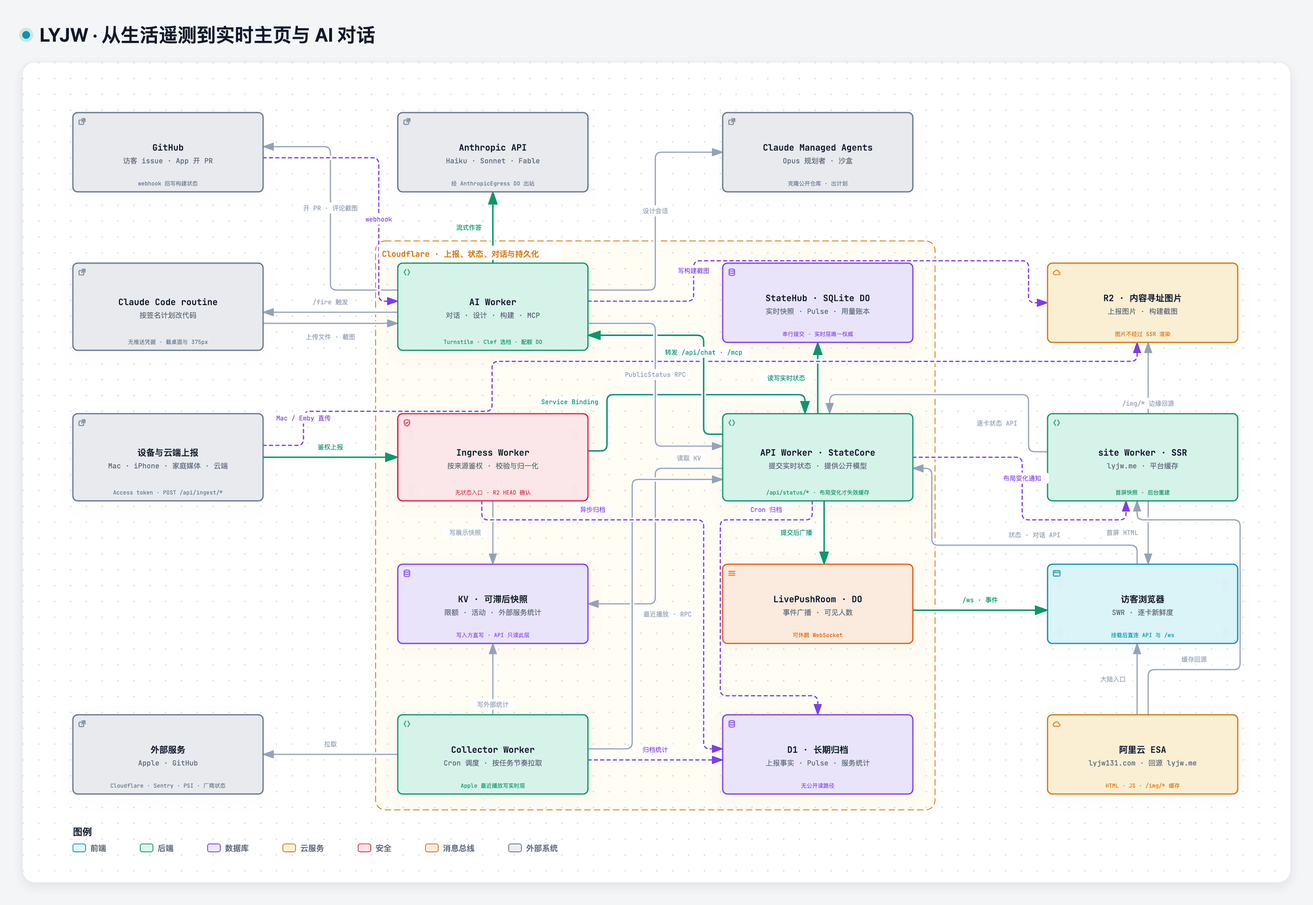
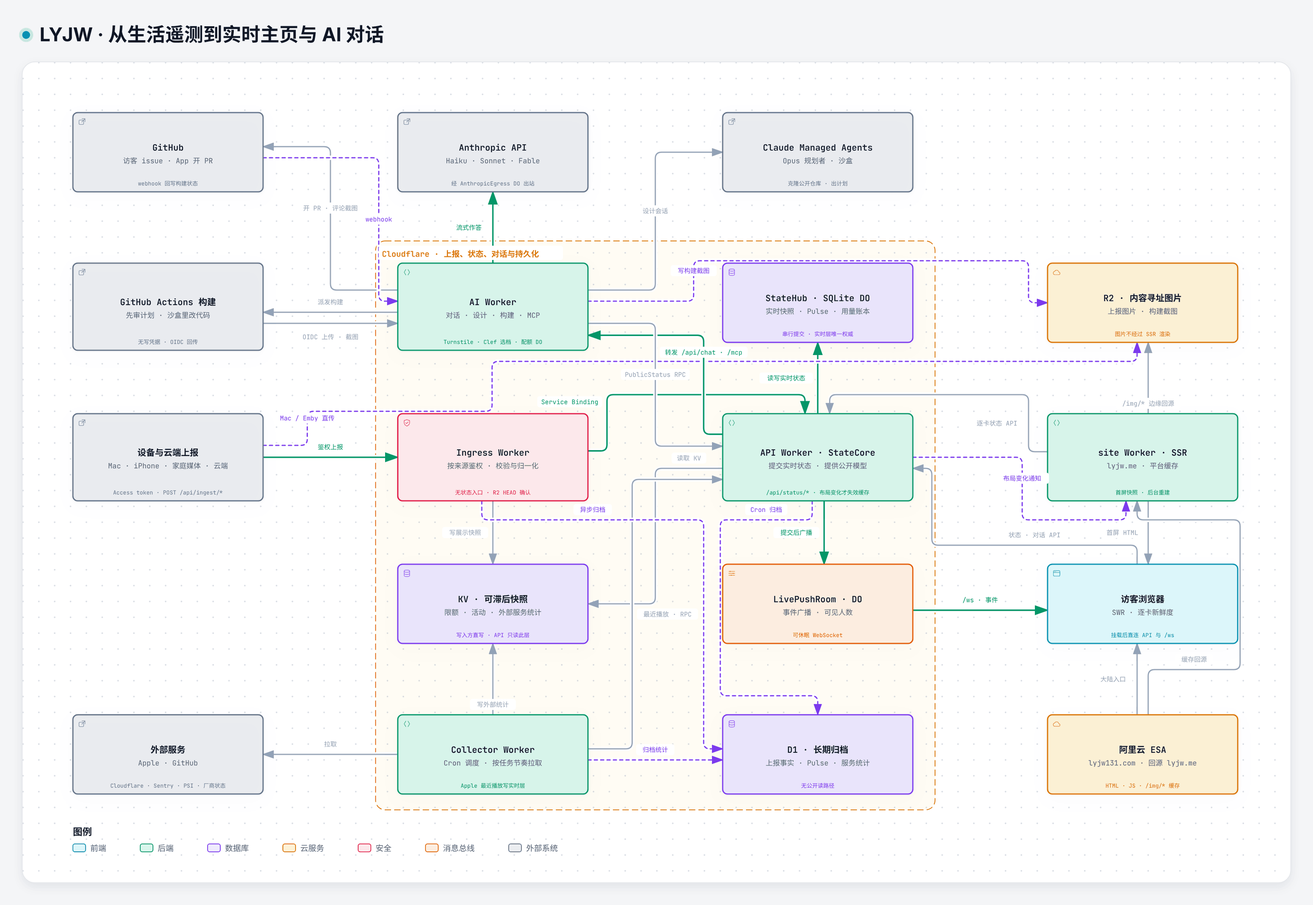
docs(architecture): 按构建工作流的源码重新生成架构图产物与回执
Claude-Session: https://claude.ai/code/session_01Bxy5foHh4fpsobDuCynDQD

diff --git a/docs/architecture.html b/docs/architecture.html
@@ -4982,7 +4982,7 @@ OTHER DEALINGS IN THE FONT SOFTWARE.
       </div>
     </div>
 
-    <script id="archify-source-evidence-data" type="application/json">{"schemaVersion":1,"verified":true,"repository":{"url":"https://github.com/LYJW131/lyjwpage","revision":"9de4de40d6bad7edb2e38af0bd18464a3fee9f97","shortRevision":"9de4de4","label":"LYJW131/lyjwpage","href":"https://github.com/LYJW131/lyjwpage/tree/9de4de40d6bad7edb2e38af0bd18464a3fee9f97"},"referenceCount":47,"nodes":{"reporters":[{"path":"docs/ops-facts.md","href":"https://github.com/LYJW131/lyjwpage/blob/9de4de40d6bad7edb2e38af0bd18464a3fee9f97/docs/ops-facts.md"},{"path":"workers/ingress/src/access-auth.ts","href":"https://github.com/LYJW131/lyjwpage/blob/9de4de40d6bad7edb2e38af0bd18464a3fee9f97/workers/ingress/src/access-auth.ts"},{"path":"shared/ingest/prepare.ts","href":"https://github.com/LYJW131/lyjwpage/blob/9de4de40d6bad7edb2e38af0bd18464a3fee9f97/shared/ingest/prepare.ts"}],"ingress":[{"path":"workers/ingress/src/worker.ts","href":"https://github.com/LYJW131/lyjwpage/blob/9de4de40d6bad7edb2e38af0bd18464a3fee9f97/workers/ingress/src/worker.ts"},{"path":"workers/ingress/src/access-auth.ts","href":"https://github.com/LYJW131/lyjwpage/blob/9de4de40d6bad7edb2e38af0bd18464a3fee9f97/workers/ingress/src/access-auth.ts"},{"path":"shared/ingest/prepare.ts","href":"https://github.com/LYJW131/lyjwpage/blob/9de4de40d6bad7edb2e38af0bd18464a3fee9f97/shared/ingest/prepare.ts"}],"api":[{"path":"workers/api/src/state-core.ts","href":"https://github.com/LYJW131/lyjwpage/blob/9de4de40d6bad7edb2e38af0bd18464a3fee9f97/workers/api/src/state-core.ts"},{"path":"workers/api/src/public-api.ts","href":"https://github.com/LYJW131/lyjwpage/blob/9de4de40d6bad7edb2e38af0bd18464a3fee9f97/workers/api/src/public-api.ts"},{"path":"workers/api/src/live-platform.ts","href":"https://github.com/LYJW131/lyjwpage/blob/9de4de40d6bad7edb2e38af0bd18464a3fee9f97/workers/api/src/live-platform.ts"}],"state":[{"path":"workers/api/src/state-hub.ts","href":"https://github.com/LYJW131/lyjwpage/blob/9de4de40d6bad7edb2e38af0bd18464a3fee9f97/workers/api/src/state-hub.ts"},{"path":"workers/api/src/storage-driver.ts","href":"https://github.com/LYJW131/lyjwpage/blob/9de4de40d6bad7edb2e38af0bd18464a3fee9f97/workers/api/src/storage-driver.ts"}],"lag":[{"path":"shared/lag.ts","href":"https://github.com/LYJW131/lyjwpage/blob/9de4de40d6bad7edb2e38af0bd18464a3fee9f97/shared/lag.ts"},{"path":"workers/ingress/src/lag-ingest.ts","href":"https://github.com/LYJW131/lyjwpage/blob/9de4de40d6bad7edb2e38af0bd18464a3fee9f97/workers/ingress/src/lag-ingest.ts"},{"path":"workers/api/src/ports.ts","href":"https://github.com/LYJW131/lyjwpage/blob/9de4de40d6bad7edb2e38af0bd18464a3fee9f97/workers/api/src/ports.ts"}],"live":[{"path":"workers/api/src/live-platform.ts","href":"https://github.com/LYJW131/lyjwpage/blob/9de4de40d6bad7edb2e38af0bd18464a3fee9f97/workers/api/src/live-platform.ts"},{"path":"workers/api/src/origin-worker.ts","href":"https://github.com/LYJW131/lyjwpage/blob/9de4de40d6bad7edb2e38af0bd18464a3fee9f97/workers/api/src/origin-worker.ts"},{"path":"workers/api/src/live-census.ts","href":"https://github.com/LYJW131/lyjwpage/blob/9de4de40d6bad7edb2e38af0bd18464a3fee9f97/workers/api/src/live-census.ts"}],"collector":[{"path":"workers/collector/src/registry.ts","href":"https://github.com/LYJW131/lyjwpage/blob/9de4de40d6bad7edb2e38af0bd18464a3fee9f97/workers/collector/src/registry.ts"},{"path":"workers/collector/src/jobs/apple-recent.ts","href":"https://github.com/LYJW131/lyjwpage/blob/9de4de40d6bad7edb2e38af0bd18464a3fee9f97/workers/collector/src/jobs/apple-recent.ts"},{"path":"workers/collector/wrangler.toml","href":"https://github.com/LYJW131/lyjwpage/blob/9de4de40d6bad7edb2e38af0bd18464a3fee9f97/workers/collector/wrangler.toml"}],"external":[{"path":"workers/collector/src/registry.ts","href":"https://github.com/LYJW131/lyjwpage/blob/9de4de40d6bad7edb2e38af0bd18464a3fee9f97/workers/collector/src/registry.ts"}],"history":[{"path":"workers/ingress/src/ingest-archive.ts","href":"https://github.com/LYJW131/lyjwpage/blob/9de4de40d6bad7edb2e38af0bd18464a3fee9f97/workers/ingress/src/ingest-archive.ts"},{"path":"workers/api/src/index.ts","href":"https://github.com/LYJW131/lyjwpage/blob/9de4de40d6bad7edb2e38af0bd18464a3fee9f97/workers/api/src/index.ts"},{"path":"workers/collector/src/history.ts","href":"https://github.com/LYJW131/lyjwpage/blob/9de4de40d6bad7edb2e38af0bd18464a3fee9f97/workers/collector/src/history.ts"}],"images":[{"path":"reporters/emby-reporter/src/r2.ts","href":"https://github.com/LYJW131/lyjwpage/blob/9de4de40d6bad7edb2e38af0bd18464a3fee9f97/reporters/emby-reporter/src/r2.ts"},{"path":"workers/ai/src/build/screenshots.ts","href":"https://github.com/LYJW131/lyjwpage/blob/9de4de40d6bad7edb2e38af0bd18464a3fee9f97/workers/ai/src/build/screenshots.ts"},{"path":"workers/site/src/index.ts","href":"https://github.com/LYJW131/lyjwpage/blob/9de4de40d6bad7edb2e38af0bd18464a3fee9f97/workers/site/src/index.ts"}],"site":[{"path":"src/lib/first-screen.ts","href":"https://github.com/LYJW131/lyjwpage/blob/9de4de40d6bad7edb2e38af0bd18464a3fee9f97/src/lib/first-screen.ts"},{"path":"src/app/page.tsx","href":"https://github.com/LYJW131/lyjwpage/blob/9de4de40d6bad7edb2e38af0bd18464a3fee9f97/src/app/page.tsx"},{"path":"workers/site/src/index.ts","href":"https://github.com/LYJW131/lyjwpage/blob/9de4de40d6bad7edb2e38af0bd18464a3fee9f97/workers/site/src/index.ts"}],"browser":[{"path":"src/hooks/use-status.ts","href":"https://github.com/LYJW131/lyjwpage/blob/9de4de40d6bad7edb2e38af0bd18464a3fee9f97/src/hooks/use-status.ts"},{"path":"src/lib/live-socket.ts","href":"https://github.com/LYJW131/lyjwpage/blob/9de4de40d6bad7edb2e38af0bd18464a3fee9f97/src/lib/live-socket.ts"},{"path":"shared/freshness.ts","href":"https://github.com/LYJW131/lyjwpage/blob/9de4de40d6bad7edb2e38af0bd18464a3fee9f97/shared/freshness.ts"}],"esa":[{"path":"docs/ops-facts.md","href":"https://github.com/LYJW131/lyjwpage/blob/9de4de40d6bad7edb2e38af0bd18464a3fee9f97/docs/ops-facts.md"},{"path":"workers/site/src/index.ts","href":"https://github.com/LYJW131/lyjwpage/blob/9de4de40d6bad7edb2e38af0bd18464a3fee9f97/workers/site/src/index.ts"}],"ai":[{"path":"workers/ai/src/worker.ts","href":"https://github.com/LYJW131/lyjwpage/blob/9de4de40d6bad7edb2e38af0bd18464a3fee9f97/workers/ai/src/worker.ts"},{"path":"workers/ai/src/chat/handler.ts","href":"https://github.com/LYJW131/lyjwpage/blob/9de4de40d6bad7edb2e38af0bd18464a3fee9f97/workers/ai/src/chat/handler.ts"},{"path":"workers/ai/src/chat/router.ts","href":"https://github.com/LYJW131/lyjwpage/blob/9de4de40d6bad7edb2e38af0bd18464a3fee9f97/workers/ai/src/chat/router.ts"}],"anthropic":[{"path":"shared/god-chat-tiers.ts","href":"https://github.com/LYJW131/lyjwpage/blob/9de4de40d6bad7edb2e38af0bd18464a3fee9f97/shared/god-chat-tiers.ts"},{"path":"workers/ai/src/chat/egress.ts","href":"https://github.com/LYJW131/lyjwpage/blob/9de4de40d6bad7edb2e38af0bd18464a3fee9f97/workers/ai/src/chat/egress.ts"}],"managed":[{"path":"workers/ai/src/chat/designer.ts","href":"https://github.com/LYJW131/lyjwpage/blob/9de4de40d6bad7edb2e38af0bd18464a3fee9f97/workers/ai/src/chat/designer.ts"},{"path":"workers/ai/src/chat/design.ts","href":"https://github.com/LYJW131/lyjwpage/blob/9de4de40d6bad7edb2e38af0bd18464a3fee9f97/workers/ai/src/chat/design.ts"}],"routine":[{"path":"workers/ai/src/build/handlers.ts","href":"https://github.com/LYJW131/lyjwpage/blob/9de4de40d6bad7edb2e38af0bd18464a3fee9f97/workers/ai/src/build/handlers.ts"},{"path":"docs/build-routine.md","href":"https://github.com/LYJW131/lyjwpage/blob/9de4de40d6bad7edb2e38af0bd18464a3fee9f97/docs/build-routine.md"}],"github":[{"path":"workers/ai/src/build/github.ts","href":"https://github.com/LYJW131/lyjwpage/blob/9de4de40d6bad7edb2e38af0bd18464a3fee9f97/workers/ai/src/build/github.ts"},{"path":"workers/ai/src/build/webhook.ts","href":"https://github.com/LYJW131/lyjwpage/blob/9de4de40d6bad7edb2e38af0bd18464a3fee9f97/workers/ai/src/build/webhook.ts"},{"path":"workers/ai/src/github-issue.ts","href":"https://github.com/LYJW131/lyjwpage/blob/9de4de40d6bad7edb2e38af0bd18464a3fee9f97/workers/ai/src/github-issue.ts"}]}}</script>
+    <script id="archify-source-evidence-data" type="application/json">{"schemaVersion":1,"verified":true,"repository":{"url":"https://github.com/LYJW131/lyjwpage","revision":"af504d82289553557e8934ac923350f14ef4fc10","shortRevision":"af504d8","label":"LYJW131/lyjwpage","href":"https://github.com/LYJW131/lyjwpage/tree/af504d82289553557e8934ac923350f14ef4fc10"},"referenceCount":47,"nodes":{"reporters":[{"path":"docs/ops-facts.md","href":"https://github.com/LYJW131/lyjwpage/blob/af504d82289553557e8934ac923350f14ef4fc10/docs/ops-facts.md"},{"path":"workers/ingress/src/access-auth.ts","href":"https://github.com/LYJW131/lyjwpage/blob/af504d82289553557e8934ac923350f14ef4fc10/workers/ingress/src/access-auth.ts"},{"path":"shared/ingest/prepare.ts","href":"https://github.com/LYJW131/lyjwpage/blob/af504d82289553557e8934ac923350f14ef4fc10/shared/ingest/prepare.ts"}],"ingress":[{"path":"workers/ingress/src/worker.ts","href":"https://github.com/LYJW131/lyjwpage/blob/af504d82289553557e8934ac923350f14ef4fc10/workers/ingress/src/worker.ts"},{"path":"workers/ingress/src/access-auth.ts","href":"https://github.com/LYJW131/lyjwpage/blob/af504d82289553557e8934ac923350f14ef4fc10/workers/ingress/src/access-auth.ts"},{"path":"shared/ingest/prepare.ts","href":"https://github.com/LYJW131/lyjwpage/blob/af504d82289553557e8934ac923350f14ef4fc10/shared/ingest/prepare.ts"}],"api":[{"path":"workers/api/src/state-core.ts","href":"https://github.com/LYJW131/lyjwpage/blob/af504d82289553557e8934ac923350f14ef4fc10/workers/api/src/state-core.ts"},{"path":"workers/api/src/public-api.ts","href":"https://github.com/LYJW131/lyjwpage/blob/af504d82289553557e8934ac923350f14ef4fc10/workers/api/src/public-api.ts"},{"path":"workers/api/src/live-platform.ts","href":"https://github.com/LYJW131/lyjwpage/blob/af504d82289553557e8934ac923350f14ef4fc10/workers/api/src/live-platform.ts"}],"state":[{"path":"workers/api/src/state-hub.ts","href":"https://github.com/LYJW131/lyjwpage/blob/af504d82289553557e8934ac923350f14ef4fc10/workers/api/src/state-hub.ts"},{"path":"workers/api/src/storage-driver.ts","href":"https://github.com/LYJW131/lyjwpage/blob/af504d82289553557e8934ac923350f14ef4fc10/workers/api/src/storage-driver.ts"}],"lag":[{"path":"shared/lag.ts","href":"https://github.com/LYJW131/lyjwpage/blob/af504d82289553557e8934ac923350f14ef4fc10/shared/lag.ts"},{"path":"workers/ingress/src/lag-ingest.ts","href":"https://github.com/LYJW131/lyjwpage/blob/af504d82289553557e8934ac923350f14ef4fc10/workers/ingress/src/lag-ingest.ts"},{"path":"workers/api/src/ports.ts","href":"https://github.com/LYJW131/lyjwpage/blob/af504d82289553557e8934ac923350f14ef4fc10/workers/api/src/ports.ts"}],"live":[{"path":"workers/api/src/live-platform.ts","href":"https://github.com/LYJW131/lyjwpage/blob/af504d82289553557e8934ac923350f14ef4fc10/workers/api/src/live-platform.ts"},{"path":"workers/api/src/origin-worker.ts","href":"https://github.com/LYJW131/lyjwpage/blob/af504d82289553557e8934ac923350f14ef4fc10/workers/api/src/origin-worker.ts"},{"path":"workers/api/src/live-census.ts","href":"https://github.com/LYJW131/lyjwpage/blob/af504d82289553557e8934ac923350f14ef4fc10/workers/api/src/live-census.ts"}],"collector":[{"path":"workers/collector/src/registry.ts","href":"https://github.com/LYJW131/lyjwpage/blob/af504d82289553557e8934ac923350f14ef4fc10/workers/collector/src/registry.ts"},{"path":"workers/collector/src/jobs/apple-recent.ts","href":"https://github.com/LYJW131/lyjwpage/blob/af504d82289553557e8934ac923350f14ef4fc10/workers/collector/src/jobs/apple-recent.ts"},{"path":"workers/collector/wrangler.toml","href":"https://github.com/LYJW131/lyjwpage/blob/af504d82289553557e8934ac923350f14ef4fc10/workers/collector/wrangler.toml"}],"external":[{"path":"workers/collector/src/registry.ts","href":"https://github.com/LYJW131/lyjwpage/blob/af504d82289553557e8934ac923350f14ef4fc10/workers/collector/src/registry.ts"}],"history":[{"path":"workers/ingress/src/ingest-archive.ts","href":"https://github.com/LYJW131/lyjwpage/blob/af504d82289553557e8934ac923350f14ef4fc10/workers/ingress/src/ingest-archive.ts"},{"path":"workers/api/src/index.ts","href":"https://github.com/LYJW131/lyjwpage/blob/af504d82289553557e8934ac923350f14ef4fc10/workers/api/src/index.ts"},{"path":"workers/collector/src/history.ts","href":"https://github.com/LYJW131/lyjwpage/blob/af504d82289553557e8934ac923350f14ef4fc10/workers/collector/src/history.ts"}],"images":[{"path":"reporters/emby-reporter/src/r2.ts","href":"https://github.com/LYJW131/lyjwpage/blob/af504d82289553557e8934ac923350f14ef4fc10/reporters/emby-reporter/src/r2.ts"},{"path":"workers/ai/src/build/screenshots.ts","href":"https://github.com/LYJW131/lyjwpage/blob/af504d82289553557e8934ac923350f14ef4fc10/workers/ai/src/build/screenshots.ts"},{"path":"workers/site/src/index.ts","href":"https://github.com/LYJW131/lyjwpage/blob/af504d82289553557e8934ac923350f14ef4fc10/workers/site/src/index.ts"}],"site":[{"path":"src/lib/first-screen.ts","href":"https://github.com/LYJW131/lyjwpage/blob/af504d82289553557e8934ac923350f14ef4fc10/src/lib/first-screen.ts"},{"path":"src/app/page.tsx","href":"https://github.com/LYJW131/lyjwpage/blob/af504d82289553557e8934ac923350f14ef4fc10/src/app/page.tsx"},{"path":"workers/site/src/index.ts","href":"https://github.com/LYJW131/lyjwpage/blob/af504d82289553557e8934ac923350f14ef4fc10/workers/site/src/index.ts"}],"browser":[{"path":"src/hooks/use-status.ts","href":"https://github.com/LYJW131/lyjwpage/blob/af504d82289553557e8934ac923350f14ef4fc10/src/hooks/use-status.ts"},{"path":"src/lib/live-socket.ts","href":"https://github.com/LYJW131/lyjwpage/blob/af504d82289553557e8934ac923350f14ef4fc10/src/lib/live-socket.ts"},{"path":"shared/freshness.ts","href":"https://github.com/LYJW131/lyjwpage/blob/af504d82289553557e8934ac923350f14ef4fc10/shared/freshness.ts"}],"esa":[{"path":"docs/ops-facts.md","href":"https://github.com/LYJW131/lyjwpage/blob/af504d82289553557e8934ac923350f14ef4fc10/docs/ops-facts.md"},{"path":"workers/site/src/index.ts","href":"https://github.com/LYJW131/lyjwpage/blob/af504d82289553557e8934ac923350f14ef4fc10/workers/site/src/index.ts"}],"ai":[{"path":"workers/ai/src/worker.ts","href":"https://github.com/LYJW131/lyjwpage/blob/af504d82289553557e8934ac923350f14ef4fc10/workers/ai/src/worker.ts"},{"path":"workers/ai/src/chat/handler.ts","href":"https://github.com/LYJW131/lyjwpage/blob/af504d82289553557e8934ac923350f14ef4fc10/workers/ai/src/chat/handler.ts"},{"path":"workers/ai/src/chat/router.ts","href":"https://github.com/LYJW131/lyjwpage/blob/af504d82289553557e8934ac923350f14ef4fc10/workers/ai/src/chat/router.ts"}],"anthropic":[{"path":"shared/god-chat-tiers.ts","href":"https://github.com/LYJW131/lyjwpage/blob/af504d82289553557e8934ac923350f14ef4fc10/shared/god-chat-tiers.ts"},{"path":"workers/ai/src/chat/egress.ts","href":"https://github.com/LYJW131/lyjwpage/blob/af504d82289553557e8934ac923350f14ef4fc10/workers/ai/src/chat/egress.ts"}],"managed":[{"path":"workers/ai/src/chat/designer.ts","href":"https://github.com/LYJW131/lyjwpage/blob/af504d82289553557e8934ac923350f14ef4fc10/workers/ai/src/chat/designer.ts"},{"path":"workers/ai/src/chat/design.ts","href":"https://github.com/LYJW131/lyjwpage/blob/af504d82289553557e8934ac923350f14ef4fc10/workers/ai/src/chat/design.ts"}],"build_workflow":[{"path":".github/workflows/build.yml","href":"https://github.com/LYJW131/lyjwpage/blob/af504d82289553557e8934ac923350f14ef4fc10/.github/workflows/build.yml"},{"path":"scripts/build-actions.mjs","href":"https://github.com/LYJW131/lyjwpage/blob/af504d82289553557e8934ac923350f14ef4fc10/scripts/build-actions.mjs"}],"github":[{"path":"workers/ai/src/build/github.ts","href":"https://github.com/LYJW131/lyjwpage/blob/af504d82289553557e8934ac923350f14ef4fc10/workers/ai/src/build/github.ts"},{"path":"workers/ai/src/build/webhook.ts","href":"https://github.com/LYJW131/lyjwpage/blob/af504d82289553557e8934ac923350f14ef4fc10/workers/ai/src/build/webhook.ts"},{"path":"shared/build-routine.ts","href":"https://github.com/LYJW131/lyjwpage/blob/af504d82289553557e8934ac923350f14ef4fc10/shared/build-routine.ts"}]}}</script>
     <script id="archify-i18n-data" type="application/json">{"locale":"zh-CN","messages":{"viewer.kind.frontend":"前端","viewer.kind.backend":"后端","viewer.kind.database":"数据库","viewer.kind.cloud":"云服务","viewer.kind.security":"安全","viewer.kind.messagebus":"消息总线","viewer.kind.external":"外部系统","viewer.kind.neutral":"中性","viewer.kind.node":"节点","viewer.kind.start":"开始","viewer.kind.active":"活动","viewer.kind.waiting":"等待","viewer.kind.decision":"决策","viewer.kind.success":"成功","viewer.kind.failure":"失败","viewer.toolbar.actions":"图表操作","viewer.theme.toggle.title":"切换主题（T）","viewer.theme.toggle":"切换颜色主题","viewer.theme.dark":"深色","viewer.theme.light":"浅色","viewer.preset.choose.title":"选择视觉风格（S 循环切换）","viewer.preset.choose":"选择视觉风格","viewer.preset.style":"风格","viewer.preset.menu":"视觉风格","viewer.preset.identity":"视觉表达","viewer.preset.cycles":"循环切换","viewer.preset.classic":"经典","viewer.preset.classic.short":"经典","viewer.preset.classic.hint":"稳定的技术默认风格","viewer.preset.flow":"信号流","viewer.preset.flow.short":"流动","viewer.preset.flow.hint":"突出动态流向","viewer.preset.blueprint":"蓝图","viewer.preset.blueprint.hint":"工程评审","viewer.preset.editorial":"编辑风格","viewer.preset.editorial.hint":"适合发布与上线说明","viewer.preset.badge.signalFlow":"信号流","viewer.preset.badge.blueprint":"蓝图 / 修订 01","viewer.preset.badge.editorial":"编辑风格 / 现场笔记","viewer.preset.badge.editorialPlate":"ARCHIFY / 图版 04","viewer.preset.current":"当前视觉风格：{style}。选择视觉风格","viewer.motion.live":"动态","viewer.motion.still":"静态","viewer.motion.pause":"暂停动效","viewer.motion.resume":"恢复动效","viewer.motion.reduced":"已根据减少动态效果偏好暂停动效","viewer.motion.hidden":"页面不可见时已暂停动效","viewer.motion.yielding":"暂停动效；当前让位于{owner}","viewer.motion.yielding.title":"动态预览已启用 · 正在让位于{owner}","viewer.owner.route":"路径探测","viewer.owner.lens":"语义透镜","viewer.owner.relationship":"关系预览","viewer.owner.intent":"意图追踪","viewer.owner.focus":"语义聚焦","viewer.owner.legend":"图例预览","viewer.owner.reader":"读者交互","viewer.present.enter":"进入演示模式","viewer.present.enter.title":"演示模式（F）","viewer.present.exit":"退出演示模式","viewer.present.exit.title":"退出演示模式（F 或 Escape）","viewer.present.present":"演示","viewer.present.exit.label":"退出","viewer.export.button":"导出","viewer.export.button.title":"导出图表（E）","viewer.export.diagram":"导出图表","viewer.export.menu":"导出","viewer.export.subtitle":"便携、整洁的输出","viewer.export.share":"分享","viewer.export.shareCard":"分享卡片","viewer.export.routeShareCard":"路径分享卡片","viewer.export.reachShareCard":"可达范围分享卡片","viewer.export.copyDiagram":"复制图表","viewer.export.clipboardPng":"复制 PNG 到剪贴板","viewer.export.raster":"位图","viewer.export.image":"图像","viewer.export.lossless":"无损图像","viewer.export.compact":"紧凑图像","viewer.export.modern":"现代图像格式","viewer.export.vectorMotion":"矢量与动效","viewer.export.vectorMotion.heading":"矢量与动效","viewer.export.editable":"可编辑矢量图","viewer.export.svg.auto":"SVG · 自动","viewer.export.svg.auto.hint":"匹配宿主主题","viewer.export.svg.light":"SVG · 浅色","viewer.export.svg.light.hint":"始终浅色","viewer.export.svg.dark":"SVG · 深色","viewer.export.svg.dark.hint":"始终深色","viewer.export.motion6s":"6 秒动效","viewer.export.unsupported":"当前浏览器不支持","viewer.export.clipboardUnsupported":"当前浏览器不支持写入图片剪贴板","viewer.export.clipboardUnsupported.short":"此浏览器不支持写入图片剪贴板。","viewer.export.motionUnavailable":"当前浏览器无法录制动效","viewer.export.webmUnavailable":"当前浏览器不支持 WebM","viewer.export.failed":"导出失败：{message}","viewer.export.unknownVariant":"未知的分享卡片类型：{variant}","viewer.export.routeRequired":"请先追踪路径，再导出路径分享卡片","viewer.export.reachRequired":"请先追踪编写可达范围，再导出可达范围分享卡片","viewer.export.unknown":"未知错误","viewer.export.routeFailed":"路径分享卡片导出失败：{message}","viewer.export.reachFailed":"可达范围分享卡片导出失败：{message}","viewer.export.copyFailed":"复制失败：{message}","viewer.export.copiedPng":"已将 PNG 复制到剪贴板","viewer.export.downloadedRoute":"已下载路径分享卡片","viewer.export.downloadedReach":"已下载可达范围分享卡片","viewer.export.downloadedWebm":"已下载 WebM","viewer.export.recording":"正在录制 6 秒动效…","viewer.export.card.routeSummary.one":"路径：{source} → {target} · {count} 步","viewer.export.card.routeSummary.other":"路径：{source} → {target} · {count} 步","viewer.export.card.reachSummary":"从{origin}开始的编写{direction} · {nodes} · {links} · 最深 {hops}","viewer.export.card.node.one":"{count} 个节点","viewer.export.card.node.other":"{count} 个节点","viewer.export.card.link.one":"{count} 条连接","viewer.export.card.link.other":"{count} 条连接","viewer.export.card.hop.one":"{count} 跳","viewer.export.card.hop.other":"{count} 跳","viewer.export.card.routeBadge":"ARCHIFY · 路径 · {hops}","viewer.export.card.reachBadge":"ARCHIFY · {direction}可达范围","viewer.export.direction.upstream":"上游","viewer.export.direction.downstream":"下游","viewer.export.error.canvasUnavailable":"无法为{label}使用画布","viewer.export.error.contextUnavailable":"无法为{label}创建二维画布上下文","viewer.export.error.toBlobUnavailable":"{label}无法使用 canvas.toBlob","viewer.export.error.toBlobNull":"{label}的 canvas.toBlob 未返回数据","viewer.export.error.variantsCombined":"无法同时组合多种分享卡片类型","viewer.export.error.viewerState":"分享卡片导出无法移除临时 Viewer 状态","viewer.export.error.routeState":"路径卡片导出无法安全保留已解析路径","viewer.export.error.reachState":"可达范围卡片导出无法安全保留编写的可达范围","viewer.export.error.webmRequirements":"WebM 动效导出需要追踪动画及浏览器 MediaRecorder 支持","viewer.export.error.mediaRecorder":"MediaRecorder 录制失败","viewer.export.error.emptyWebm":"MediaRecorder 生成了空的 WebM","viewer.export.error.webmBackground":"无法为 WebM 导出加载 SVG 背景","viewer.guide.title":"探索此系统","viewer.focus.selectedNodes":"已选择 {count} 个节点","viewer.guide.eyebrow":"图表指南","viewer.guide.close":"关闭图表指南","viewer.guide.inspecting":"正在检查已编译语义","viewer.guide.actions":"图表探索操作","viewer.guide.find":"查找任意节点","viewer.guide.find.hint":"搜索标签、职责、类型和稳定 ID。","viewer.guide.route":"追踪路径","viewer.guide.route.aria":"追踪有向路径","viewer.guide.route.hint":"查看两个语义节点如何按编写方向连接。","viewer.guide.map":"查看完整系统","viewer.guide.map.hint":"打开带实时视口和稳定节点的语义雷达。","viewer.guide.lens":"比较语义类型","viewer.guide.lens.hint":"统计角色、显示流量并比较直接编写的连接。","viewer.guide.present":"进入演示模式","viewer.guide.present.hint":"让实时图表占满视口，同时不改变导出。","viewer.guide.shortcuts":"其他键盘快捷键","viewer.guide.shortcut.export":"导出","viewer.guide.shortcut.theme":"主题","viewer.guide.shortcut.style":"风格","viewer.guide.shortcut.reset":"重置","viewer.guide.shortcut.zoomIn":"放大","viewer.guide.shortcut.zoomOut":"缩小","viewer.guide.shortcut.close":"关闭","viewer.guide.facts":"{nodes} · {relationships}","viewer.guide.fact.node.one":"{count} 个语义节点","viewer.guide.fact.node.other":"{count} 个语义节点","viewer.guide.fact.relationship.one":"{count} 条关系","viewer.guide.fact.relationship.other":"{count} 条关系","viewer.guide.open":"打开图表指南","viewer.finder.title":"查找节点","viewer.finder.close":"关闭节点查找器","viewer.finder.placeholder":"搜索标签或 ID","viewer.finder.search":"搜索图表节点","viewer.finder.results":"图表节点","viewer.finder.empty":"没有匹配的节点","viewer.finder.result.focus":"聚焦{label}","viewer.finder.result.routeStart":"选择{label}作为路径起点","viewer.finder.result.routeTarget":"选择{label}作为路径终点，{links}","viewer.finder.status.empty":"没有匹配的节点","viewer.finder.status.count.one":"{count} 个匹配节点","viewer.finder.status.count.other":"{count} 个匹配节点","viewer.finder.noun.nodes":"个节点","viewer.finder.link.one":"{count} 条连接","viewer.finder.link.other":"{count} 条连接","viewer.finder.result.focus.one":"聚焦{label}，{count} 条相关连接","viewer.finder.result.focus.other":"聚焦{label}，{count} 条相关连接","viewer.finder.status.filtered":"{visible}/{available} {noun}","viewer.finder.status.all":"{available} {noun}","viewer.passport.eyebrow":"语义护照","viewer.passport.metadata":"节点元数据","viewer.passport.evidence":"已验证的源代码证据","viewer.passport.verified":"已验证来源","viewer.passport.verificationScope":"已按固定修订版本验证本地 Git 证据，未检查远程访问权限。","viewer.passport.reach":"编写可达范围","viewer.passport.reach.trace":"追踪编写的可达性","viewer.passport.upstream":"上游","viewer.passport.downstream":"下游","viewer.passport.upstream.trace":"追踪上游编写可达性","viewer.passport.downstream.trace":"追踪下游编写可达性","viewer.passport.close":"关闭语义护照","viewer.passport.move":"移动语义护照。可拖动、使用方向键移动，或按 Home 恢复自动位置。","viewer.passport.copy":"复制链接","viewer.passport.copy.focus":"复制聚焦节点的链接","viewer.passport.relations":"关系","viewer.passport.relations.show":"显示关联关系","viewer.passport.relations.hide":"隐藏关联关系","viewer.passport.relations.list":"关联关系","viewer.passport.copyRelation":"复制关系","viewer.passport.copyNode":"复制节点","viewer.passport.copyPinned":"复制固定关系的链接","viewer.passport.copySource":"复制来源节点的链接","viewer.passport.copy.focused.success":"已复制聚焦节点链接","viewer.passport.copy.pinned.success":"已复制固定关系链接","viewer.passport.copy.focused.failed":"无法复制聚焦节点链接","viewer.passport.copy.pinned.failed":"无法复制固定关系链接","viewer.passport.relationship.none":"没有关联关系","viewer.passport.relationship.count.one":"{count} 条关系","viewer.passport.relationship.count.other":"{count} 条关系","viewer.passport.relationship.show.one":"显示 {count} 条关联关系","viewer.passport.relationship.show.other":"显示 {count} 条关联关系","viewer.passport.relationship.summary":"{out} 条出向 · {in} 条入向{loops}","viewer.passport.relationship.loops":" · {count} 条自环","viewer.passport.relationship.explorer":"直接关系浏览器","viewer.passport.relationship.help":"使用方向键浏览关系。按 Enter 或空格键固定详情；按 Escape 清除。","viewer.passport.relationship.loopsBack":"回环","viewer.passport.relationship.connectsTo":"连接到","viewer.passport.relationship.connectsFrom":"连接自","viewer.passport.relationship.pinned":"已固定关系 · {from} → {to} · {label}","viewer.passport.relationship.inspect":"检查第 {index}/{total} 条关系：{from} 到 {to}，{label}。按 Enter 查看详情。","viewer.passport.relationship.group.out":"出向","viewer.passport.relationship.group.in":"入向","viewer.passport.relationship.group.loop":"自环","viewer.passport.relationship.row":"{group}：{relationship}，{neighbor}","viewer.passport.relationship.direction.out":"出 →","viewer.passport.relationship.direction.in":"← 入","viewer.passport.relationship.direction.loop":"自环","viewer.passport.sourceCount.one":"{count} 个已验证来源引用","viewer.passport.sourceCount.other":"{count} 个已验证来源引用","viewer.passport.sourceMarker":"来源","viewer.passport.beacon.one":"{count} 个已验证来源；聚焦此节点以检查","viewer.passport.beacon.other":"{count} 个已验证来源；聚焦此节点以检查","viewer.passport.repository.open":"打开已验证的仓库修订版本 {revision}","viewer.passport.source.open":"打开修订版本 {revision} 中已验证的来源 {path}","viewer.passport.source.openLink":"打开 ↗","viewer.passport.reach.upstream.one":"追踪 {count} 个上游编写节点","viewer.passport.reach.upstream.other":"追踪 {count} 个上游编写节点","viewer.passport.reach.downstream.one":"追踪 {count} 个下游编写节点","viewer.passport.reach.downstream.other":"追踪 {count} 个下游编写节点","viewer.passport.reach.noUpstream":"没有上游编写节点","viewer.passport.reach.noDownstream":"没有下游编写节点","viewer.passport.reach.status":"{direction} · {nodes} 个节点 · {links} 条连接 · 最深 {hops} 跳","viewer.route.eyebrow":"路径","viewer.route.start":"点击路径的起点","viewer.route.start.find":"查找起点","viewer.route.start.find.aria":"查找路径起点","viewer.route.copy":"复制链接","viewer.route.copy.aria":"复制已追踪路径的链接","viewer.route.clear":"清除","viewer.route.clear.aria":"清除路径探测","viewer.route.traced":"路径","viewer.route.pickTwo":"在图上点两个节点","viewer.route.pickOne":"在图上点一个节点","viewer.route.controls":"路径旅程控制","viewer.route.previous":"上一个路径位置","viewer.route.play":"播放路径旅程","viewer.route.pause":"暂停路径旅程","viewer.route.replay":"重播路径旅程","viewer.route.next":"下一个路径位置","viewer.route.journey":"旅程","viewer.route.pause.label":"暂停","viewer.route.replay.label":"重播","viewer.route.overview":"总览","viewer.route.overview.aria":"显示完整路径总览","viewer.route.instructions":"先点起点，再点终点，沿箭头方向找路。","viewer.route.destination":"从{label}出发，走到哪里？","viewer.route.destination.find":"查找目标","viewer.route.destination.find.aria":"查找可达的路径目标","viewer.route.differentDestination":"选择其他目标","viewer.route.distinct":"请选两个不同的节点。","viewer.route.unreachable":"走不到{label}","viewer.route.unreachable.detail":"沿箭头方向，从{source}走不到{target}。请选一个高亮节点。","viewer.route.start.instructions":"接着选终点，能走到的节点会亮起。","viewer.route.copy.success":"已复制路径链接","viewer.route.copy.failed":"无法复制路径链接","viewer.route.position":"路径位置 {index}/{total}：{label}","viewer.route.step":"第 {index}/{total} 步 · {phase} · {label}","viewer.route.motionRequired":"自动旅程需要动态模式","viewer.route.trigger.clear":"清除已追踪路径","viewer.route.overview.status":"{nodes} · {hops} · 最短路径","viewer.route.overview.node.one":"{count} 个节点","viewer.route.overview.node.other":"{count} 个节点","viewer.route.overview.hop.one":"{count} 步","viewer.route.overview.hop.other":"{count} 步","viewer.route.phase.playing":"播放中","viewer.route.phase.complete":"已完成","viewer.route.phase.inspecting":"检查中","viewer.route.destination.count.one":"有 {count} 个能走到的节点已高亮，点一下。","viewer.route.destination.count.other":"有 {count} 个能走到的节点已高亮，点一个。","viewer.route.noOutgoing":"这个节点没有向外的箭头。清除后换一个起点。","viewer.route.result.title":"{source} 到 {target}","viewer.route.finder.source.title":"选择路径起点","viewer.route.finder.source.placeholder":"搜索路径来源","viewer.route.finder.source.empty":"没有匹配的路径来源","viewer.route.finder.source.results":"可作为路径起点的节点","viewer.route.finder.source.noun":"个路径来源","viewer.route.finder.source.badge":"起点","viewer.route.finder.target.title":"从{label}出发的目标","viewer.route.finder.target.placeholder":"搜索可达目标","viewer.route.finder.target.empty":"没有匹配的可达目标","viewer.route.finder.target.results":"可达路径目标","viewer.route.finder.target.noun":"个可达目标","viewer.route.hop.one":"{count} 跳","viewer.route.hop.other":"{count} 跳","viewer.lens.eyebrow":"语义透镜","viewer.lens.title":"比较系统角色","viewer.lens.close":"关闭语义透镜","viewer.lens.instruction":"最多选择两种语义类型。选择一种可显示其真实流量；选择两种只比较直接编写的关系。","viewer.lens.kinds":"语义类型","viewer.lens.choose":"选择一种类型以检查其节点和相连关系。","viewer.lens.copy":"复制语义透镜链接","viewer.lens.clear":"清除语义透镜","viewer.lens.open":"打开语义透镜","viewer.lens.openActive":"打开当前语义透镜","viewer.lens.legend":"语义图例","viewer.lens.legend.inspect.one":"检查{label}，{count} 个节点","viewer.lens.legend.inspect.other":"检查{label}，{count} 个节点","viewer.lens.kind.count.one":"{label}，{count} 个节点","viewer.lens.kind.count.other":"{label}，{count} 个节点","viewer.lens.compare.one":"{first} → {second}：{forward} · {second} → {first}：{reverse} · 共 {count} 条直接关系","viewer.lens.compare.other":"{first} → {second}：{forward} · {second} → {first}：{reverse} · 共 {count} 条直接关系","viewer.lens.single":"{nodes} · {relationships} · 已连接节点保持可见","viewer.lens.node.one":"{count} 个{label}节点","viewer.lens.node.other":"{count} 个{label}节点","viewer.lens.relationship.one":"{count} 条相连关系","viewer.lens.relationship.other":"{count} 条相连关系","viewer.radar.title":"语义雷达","viewer.radar.building":"正在构建总览","viewer.radar.openFull":"打开完整语义雷达","viewer.radar.open":"打开雷达","viewer.radar.close":"关闭语义雷达","viewer.radar.surface":"图表总览。点击节点进行聚焦，或使用方向键平移。","viewer.radar.click":"点击节点","viewer.radar.drag":"拖动平移","viewer.radar.space":"语义雷达需要更多地图可见空间。","viewer.radar.nodes":"语义图表雷达节点","viewer.radar.focus":"从语义雷达聚焦{label}","viewer.radar.status":"{count} 个节点 · {viewport}","viewer.radar.fullMap":"{count} 个节点 · 完整地图","viewer.radar.compacted":"已收紧雷达，避免遮挡语义护照或地图控件。","viewer.radar.cancelWaiting":"取消等待更多地图空间的语义雷达","viewer.radar.needsSpace":"语义雷达需要更多可见地图空间","viewer.radar.viewport.full":"完整地图","viewer.radar.viewport.width":"宽度 {percent}%","viewer.radar.viewport.scale":"视口 {percent}%","viewer.nav.controls":"图表视图控制","viewer.nav.route":"追踪有向路径","viewer.nav.route.title":"追踪路径（R）","viewer.nav.route.short":"路径","viewer.nav.radar":"打开语义雷达","viewer.nav.radar.title":"语义雷达（M）","viewer.nav.radar.short":"地图","viewer.nav.lens":"打开语义透镜","viewer.nav.lens.title":"语义透镜（L）","viewer.nav.lens.short":"透镜","viewer.nav.find":"查找节点","viewer.nav.find.title":"查找节点（/）","viewer.outline.title":"节点索引","viewer.rail.show":"要点与索引","viewer.rail.controls":"侧栏","viewer.rail.collapse":"收起侧栏","viewer.rail.bottom":"移到图下方","viewer.rail.right":"移到图右侧","viewer.nav.guide":"打开图表指南","viewer.nav.guide.title":"图表指南（?）","viewer.nav.zoomOut":"缩小","viewer.nav.zoomOut.title":"缩小（-）","viewer.nav.reset":"重置图表视图","viewer.nav.reset.title":"重置视图（0）","viewer.nav.read":"阅读","viewer.nav.zoomIn":"放大","viewer.nav.zoomIn.title":"放大（+）","viewer.nav.camera":"{hint}。重置图表视图","viewer.nav.camera.title":"{semantic}{hint} · 重置视图（0）","viewer.nav.camera.semantic":"语义相机已启用 · ","viewer.nav.level.map":"概览","viewer.nav.level.read":"阅读","viewer.nav.level.full":"完整","viewer.nav.level.auto":"自动","viewer.nav.detail.map":"放大以显示关系标签和节点上下文","viewer.nav.detail.read":"再次放大以显示标签和注释","viewer.nav.detail.full":"完整图表详情","viewer.intent.summary":"{label}。{out} 条出向，{in} 条入向{loops}。共 {total} 条连接。按 Enter 查看详情。","viewer.intent.loops":"，{count} 条自环","viewer.common.copied":"已复制","viewer.common.copyFailed":"复制失败","viewer.common.copyLink":"复制链接","viewer.common.clear":"清除","viewer.common.close":"关闭"}}</script>
     <!-- Main Diagram -->
     <div class="diagram-container" data-detail-level="read"
@@ -5085,8 +5085,8 @@ OTHER DEALINGS IN THE FONT SOFTWARE.
           <path data-edge-from="site" data-edge-to="browser" data-edge-label="首屏 HTML" data-edge-key="16" data-edge-id="html" data-composition-points="1397,530;1397,610" data-composition-crossover="halo" data-composition-independent="true" d="M 1397 530 L 1397 610" class="a-default" stroke-width="1.5" marker-end="url(#arrowhead)"/>
         </g>
         <g data-graph-role="automatic-crossover" style="--step:17">
-          <path data-graph-role="automatic-crossover-underlay" d="M 280 459.95 L 323 459.95 Q 331 459.95 331 451.95 L 331 425 Q 331 417 339 417 L 560.9999999999999 417 Q 568.9999999999999 417 568.9999999999999 409 L 568.9999999999999 362 Q 568.9999999999999 354 576.9999999999999 354 L 1375 354 Q 1383 354 1383 346 L 1383 330" fill="none" stroke="var(--mask)" stroke-width="5.5" stroke-linecap="round" stroke-linejoin="round" pointer-events="none"/>
-          <path data-edge-from="reporters" data-edge-to="images" data-edge-label="Mac / Emby 直传" data-edge-key="17" data-edge-id="image_upload" data-composition-points="280,459.95;331,459.95;331,417;568.9999999999999,417;568.9999999999999,354;1383,354;1383,330" data-composition-crossover="halo" data-composition-independent="true" d="M 280 459.95 L 323 459.95 Q 331 459.95 331 451.95 L 331 425 Q 331 417 339 417 L 560.9999999999999 417 Q 568.9999999999999 417 568.9999999999999 409 L 568.9999999999999 362 Q 568.9999999999999 354 576.9999999999999 354 L 1375 354 Q 1383 354 1383 346 L 1383 330" class="a-dashed" stroke-width="1.5" marker-end="url(#arrowhead-dashed)"/>
+          <path data-graph-role="automatic-crossover-underlay" d="M 280 459.95 L 327.8 459.95 Q 335.8 459.95 335.8 451.95 L 335.8 425 Q 335.8 417 343.8 417 L 560.9999999999999 417 Q 568.9999999999999 417 568.9999999999999 409 L 568.9999999999999 362 Q 568.9999999999999 354 576.9999999999999 354 L 1375 354 Q 1383 354 1383 346 L 1383 330" fill="none" stroke="var(--mask)" stroke-width="5.5" stroke-linecap="round" stroke-linejoin="round" pointer-events="none"/>
+          <path data-edge-from="reporters" data-edge-to="images" data-edge-label="Mac / Emby 直传" data-edge-key="17" data-edge-id="image_upload" data-composition-points="280,459.95;335.8,459.95;335.8,417;568.9999999999999,417;568.9999999999999,354;1383,354;1383,330" data-composition-crossover="halo" data-composition-independent="true" d="M 280 459.95 L 327.8 459.95 Q 335.8 459.95 335.8 451.95 L 335.8 425 Q 335.8 417 343.8 417 L 560.9999999999999 417 Q 568.9999999999999 417 568.9999999999999 409 L 568.9999999999999 362 Q 568.9999999999999 354 576.9999999999999 354 L 1375 354 Q 1383 354 1383 346 L 1383 330" class="a-dashed" stroke-width="1.5" marker-end="url(#arrowhead-dashed)"/>
         </g>
         <g data-graph-role="automatic-crossover" style="--step:18">
           <path data-graph-role="automatic-crossover-underlay" d="M 1397 420 L 1397 330" fill="none" stroke="var(--mask)" stroke-width="5.5" stroke-linecap="round" stroke-linejoin="round" pointer-events="none"/>
@@ -5118,11 +5118,11 @@ OTHER DEALINGS IN THE FONT SOFTWARE.
         </g>
         <g data-graph-role="automatic-crossover" style="--step:25">
           <path data-graph-role="automatic-crossover-underlay" d="M 450 292 L 280 292" fill="none" stroke="var(--mask)" stroke-width="5.5" stroke-linecap="round" stroke-linejoin="round" pointer-events="none"/>
-          <path data-edge-from="ai" data-edge-to="routine" data-edge-label="/fire 触发" data-edge-key="25" data-edge-id="build_fire" data-composition-points="450,292;280,292" data-composition-crossover="halo" data-composition-independent="true" d="M 450 292 L 280 292" class="a-default" stroke-width="1.5" marker-end="url(#arrowhead)"/>
+          <path data-edge-from="ai" data-edge-to="build_workflow" data-edge-label="派发构建" data-edge-key="25" data-edge-id="build_dispatch" data-composition-points="450,292;280,292" data-composition-crossover="halo" data-composition-independent="true" d="M 450 292 L 280 292" class="a-default" stroke-width="1.5" marker-end="url(#arrowhead)"/>
         </g>
         <g data-graph-role="automatic-crossover" style="--step:26">
           <path data-graph-role="automatic-crossover-underlay" d="M 280 306 L 450 306" fill="none" stroke="var(--mask)" stroke-width="5.5" stroke-linecap="round" stroke-linejoin="round" pointer-events="none"/>
-          <path data-edge-from="routine" data-edge-to="ai" data-edge-label="上传文件 · 截图" data-edge-key="26" data-edge-id="build_upload" data-composition-points="280,306;450,306" data-composition-crossover="halo" data-composition-independent="true" d="M 280 306 L 450 306" class="a-default" stroke-width="1.5" marker-end="url(#arrowhead)"/>
+          <path data-edge-from="build_workflow" data-edge-to="ai" data-edge-label="OIDC 上传 · 截图" data-edge-key="26" data-edge-id="build_upload" data-composition-points="280,306;450,306" data-composition-crossover="halo" data-composition-independent="true" d="M 280 306 L 450 306" class="a-default" stroke-width="1.5" marker-end="url(#arrowhead)"/>
         </g>
         <g data-graph-role="automatic-crossover" style="--step:27">
           <path data-graph-role="automatic-crossover-underlay" d="M 450 264 L 373 264 Q 365 264 365 256 L 365 91 Q 365 83 357 83 L 280 83" fill="none" stroke="var(--mask)" stroke-width="5.5" stroke-linecap="round" stroke-linejoin="round" pointer-events="none"/>
@@ -5344,17 +5344,17 @@ OTHER DEALINGS IN THE FONT SOFTWARE.
         <text data-detail="fine" x="980" y="132" class="t-external" font-size="7" text-anchor="middle">克隆公开仓库 · 出计划</text>
         </g>
 
-        <g id="node-routine" data-node-id="routine" data-node-label="Claude Code routine" tabindex="0" role="button" aria-label="聚焦Claude Code routine，按签名计划改代码, 架构组件" aria-pressed="false" data-node-kind="external" data-node-sublabel="按签名计划改代码" data-node-tag="无推送凭据 · 截桌面与 375px" data-node-context="架构组件">
-          <title>Claude Code routine · 按签名计划改代码 · 架构组件 · 无推送凭据 · 截桌面与 375px</title>
+        <g id="node-build_workflow" data-node-id="build_workflow" data-node-label="GitHub Actions 构建" tabindex="0" role="button" aria-label="聚焦GitHub Actions 构建，先审计划 · 沙盒里改代码, 架构组件" aria-pressed="false" data-node-kind="external" data-node-sublabel="先审计划 · 沙盒里改代码" data-node-tag="无写凭据 · OIDC 回传" data-node-context="架构组件">
+          <title>GitHub Actions 构建 · 先审计划 · 沙盒里改代码 · 架构组件 · 无写凭据 · OIDC 回传</title>
           <rect x="40" y="230" width="240" height="110" rx="6" class="c-mask"/>
           <rect x="40" y="230" width="240" height="110" rx="6" class="c-external" stroke-width="1.5"/>
           <g aria-hidden="true" data-semantic-sigil="external" class="semantic-sigil s-external" transform="translate(46 236) scale(0.6875)">
             <rect x="2.5" y="5" width="8.5" height="8" rx="1.5"/>
             <path d="M8 2.5h5.5V8M13.5 2.5 7.5 8.5"/>
           </g>
-          <text data-node-label="" data-detail-anchor="" x="160" y="283" class="t-primary" font-size="11" font-weight="600" text-anchor="middle">Claude Code routine</text>
-        <text data-detail="context" x="160" y="299" class="t-muted" font-size="9" text-anchor="middle">按签名计划改代码</text>
-        <text data-detail="fine" x="160" y="332" class="t-external" font-size="7" text-anchor="middle">无推送凭据 · 截桌面与 375px</text>
+          <text data-node-label="" data-detail-anchor="" x="160" y="283" class="t-primary" font-size="11" font-weight="600" text-anchor="middle">GitHub Actions 构建</text>
+        <text data-detail="context" x="160" y="299" class="t-muted" font-size="9" text-anchor="middle">先审计划 · 沙盒里改代码</text>
+        <text data-detail="fine" x="160" y="332" class="t-external" font-size="7" text-anchor="middle">无写凭据 · OIDC 回传</text>
         </g>
 
         <g id="node-github" data-node-id="github" data-node-label="GitHub" tabindex="0" role="button" aria-label="聚焦GitHub，访客 issue · App 开 PR, 架构组件" aria-pressed="false" data-node-kind="external" data-node-sublabel="访客 issue · App 开 PR" data-node-tag="webhook 回写构建状态" data-node-context="架构组件">
@@ -5440,8 +5440,8 @@ OTHER DEALINGS IN THE FONT SOFTWARE.
           <text x="1364.4" y="573" class="t-edge-default" font-size="8" text-anchor="middle">首屏 HTML</text>
         </g>
         <g data-detail="context" data-edge-from="reporters" data-edge-to="images" data-edge-label="Mac / Emby 直传" data-edge-key="17" data-edge-id="image_upload">
-          <rect x="290" y="418.475" width="82" height="14" rx="3" class="c-mask"/>
-          <text x="331" y="428.475" class="t-edge-dashed" font-size="8" text-anchor="middle">Mac / Emby 直传</text>
+          <rect x="294.8" y="418.475" width="82" height="14" rx="3" class="c-mask"/>
+          <text x="335.8" y="428.475" class="t-edge-dashed" font-size="8" text-anchor="middle">Mac / Emby 直传</text>
         </g>
         <g data-detail="context" data-edge-from="site" data-edge-to="images" data-edge-label="/img/* 边缘回源" data-edge-key="18" data-edge-id="image_origin">
           <rect x="1356" y="400" width="82" height="14" rx="3" class="c-mask"/>
@@ -5471,13 +5471,13 @@ OTHER DEALINGS IN THE FONT SOFTWARE.
           <rect x="750.8" y="157" width="48.4" height="14" rx="3" class="c-mask"/>
           <text x="775" y="167" class="t-edge-default" font-size="8" text-anchor="middle">设计会话</text>
         </g>
-        <g data-detail="context" data-edge-from="ai" data-edge-to="routine" data-edge-label="/fire 触发" data-edge-key="25" data-edge-id="build_fire">
-          <rect x="336" y="272" width="58" height="14" rx="3" class="c-mask"/>
-          <text x="365" y="282" class="t-edge-default" font-size="8" text-anchor="middle">/fire 触发</text>
+        <g data-detail="context" data-edge-from="ai" data-edge-to="build_workflow" data-edge-label="派发构建" data-edge-key="25" data-edge-id="build_dispatch">
+          <rect x="340.8" y="272" width="48.4" height="14" rx="3" class="c-mask"/>
+          <text x="365" y="282" class="t-edge-default" font-size="8" text-anchor="middle">派发构建</text>
         </g>
-        <g data-detail="context" data-edge-from="routine" data-edge-to="ai" data-edge-label="上传文件 · 截图" data-edge-key="26" data-edge-id="build_upload">
-          <rect x="324" y="316" width="82" height="14" rx="3" class="c-mask"/>
-          <text x="365" y="326" class="t-edge-default" font-size="8" text-anchor="middle">上传文件 · 截图</text>
+        <g data-detail="context" data-edge-from="build_workflow" data-edge-to="ai" data-edge-label="OIDC 上传 · 截图" data-edge-key="26" data-edge-id="build_upload">
+          <rect x="321.6" y="316" width="86.8" height="14" rx="3" class="c-mask"/>
+          <text x="365" y="326" class="t-edge-default" font-size="8" text-anchor="middle">OIDC 上传 · 截图</text>
         </g>
         <g data-detail="context" data-edge-from="ai" data-edge-to="github" data-edge-label="开 PR · 评论截图" data-edge-key="27" data-edge-id="build_pr">
           <rect x="321.6" y="153.5" width="86.8" height="14" rx="3" class="c-mask"/>
@@ -5746,8 +5746,8 @@ OTHER DEALINGS IN THE FONT SOFTWARE.
         </div>
         <ul>
           <li>首条消息前先接受隐私说明，Turnstile 验人后发 30 分钟通行证；Clef 选 Haiku、Sonnet 或 Fable，额度满了逐档降级。</li>
-          <li>改站请求由 Sonnet 开设计会话，交给 Managed Agents 里的 Opus 出计划；访客授权 GitHub 后，routine 改代码上传，ai 校验再以 App 开 PR，截图存 R2 并评论进 PR。</li>
-          <li>ai 没有公开域名：浏览器、MCP 客户端、routine 与 GitHub webhook 都打到 api，经 Service Binding 原样转发；ai 只经 PublicStatus 读公开状态。</li>
+          <li>改站请求由 Sonnet 开设计会话，交给 Managed Agents 里的 Opus 出计划；访客授权 GitHub 后，Actions 先审计划再改代码、凭 OIDC 回传，ai 校验再以 App 开 PR，截图存 R2 并评论进 PR。</li>
+          <li>ai 没有公开域名：浏览器、MCP 客户端、构建工作流与 GitHub webhook 都打到 api，经 Service Binding 原样转发；ai 只经 PublicStatus 读公开状态。</li>
         </ul>
       </div>
     </div>
